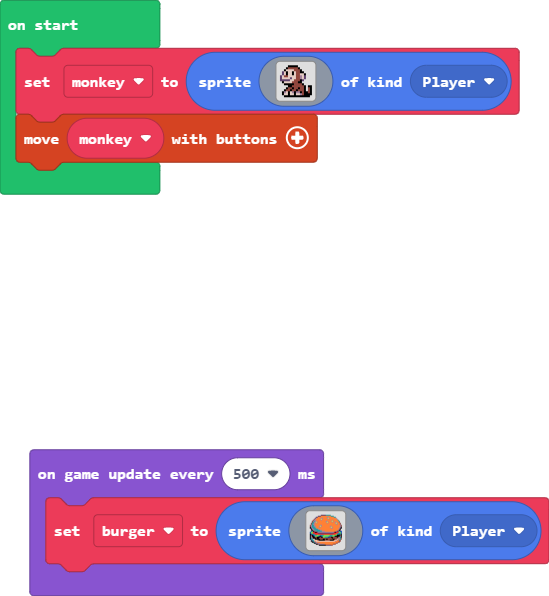
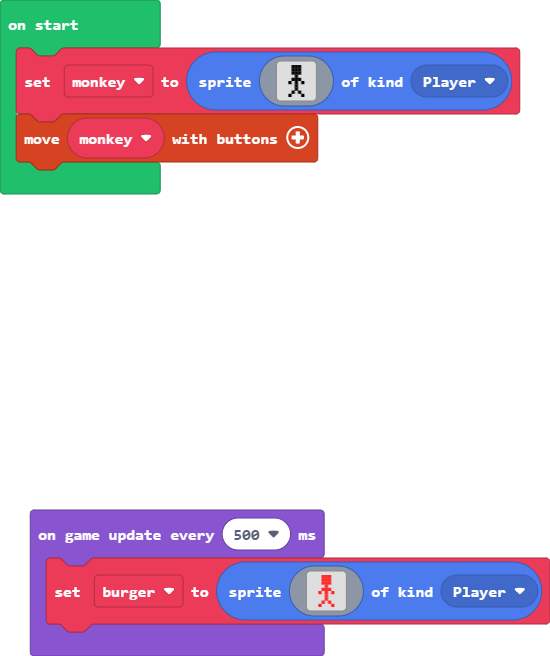
Update main.blocks, main.ts

Changed region(s): [[0.0, 0.0302, 0.9599, 0.3322], [0.031, 0.755, 1.0, 0.9966]]

diff --git a/main.ts b/main.ts
@@ -1,56 +1,28 @@
 let burger: Sprite = null
 let monkey = sprites.create(img`
-    . . . . f f f f f . . . . . . . 
-    . . . f e e e e e f . . . . . . 
-    . . f d d d d e e e f . . . . . 
-    . c d f d d f d e e f f . . . . 
-    . c d f d d f d e e d d f . . . 
-    c d e e d d d d e e b d c . . . 
-    c d d d d c d d e e b d c . . . 
-    c c c c c d d e e e f c . . . . 
-    . f d d d d e e e f f . . . . . 
-    . . f f f f f e e e e f . . . . 
-    . . . . f f e e e e e e f . f f 
-    . . . f e e f e e f e e f . e f 
-    . . f e e f e e f e e e f . e f 
-    . f b d f d b f b b f e f f e f 
-    . f d d f d d f d d b e f f f f 
-    . . f f f f f f f f f f f f f . 
+    . f f f . 
+    . f f f . 
+    . f f f . 
+    . . f . . 
+    . f f f . 
+    f . f . f 
+    . . f . . 
+    . . f . . 
+    . f . f . 
+    f . . . f 
     `, SpriteKind.Player)
 controller.moveSprite(monkey)
 game.onUpdateInterval(500, function () {
     burger = sprites.create(img`
-        ...........ccccc66666...........
-        ........ccc4444444444666........
-        ......cc444444444bb4444466......
-        .....cb4444bb4444b5b444444b.....
-        ....eb4444b5b44444b44444444b....
-        ...ebb44444b4444444444b444446...
-        ..eb6bb444444444bb444b5b444446..
-        ..e6bb5b44444444b5b444b44bb44e..
-        .e66b4b4444444444b4444444b5b44e.
-        .e6bb444444444444444444444bb44e.
-        eb66b44444bb444444444444444444be
-        eb66bb444b5b44444444bb44444444be
-        fb666b444bb444444444b5b4444444bf
-        fcb666b44444444444444bb444444bcf
-        .fbb6666b44444444444444444444bf.
-        .efbb66666bb4444444444444444bfe.
-        .86fcbb66666bbb44444444444bcc688
-        8772effcbbbbbbbbbbbbbbbbcfc22778
-        87722222cccccccccccccccc22226678
-        f866622222222222222222222276686f
-        fef866677766667777776667777fffef
-        fbff877768f86777777666776fffffbf
-        fbeffeefffeff7766688effeeeefeb6f
-        f6bfffeffeeeeeeeeeeeeefeeeeebb6e
-        f66ddfffffeeeffeffeeeeeffeedb46e
-        .c66ddd4effffffeeeeeffff4ddb46e.
-        .fc6b4dddddddddddddddddddb444ee.
-        ..ff6bb444444444444444444444ee..
-        ....ffbbbb4444444444444444ee....
-        ......ffebbbbbb44444444eee......
-        .........fffffffcccccee.........
-        ................................
+        . 2 2 2 . 
+        . 2 2 2 . 
+        . 2 2 2 . 
+        . . 2 . . 
+        . 2 2 2 . 
+        2 . 2 . 2 
+        . . 2 . . 
+        . . 2 . . 
+        . 2 . 2 . 
+        2 . . . 2 
         `, SpriteKind.Player)
 })
